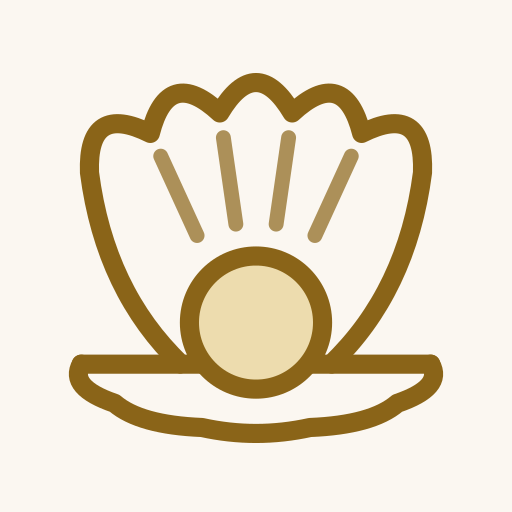
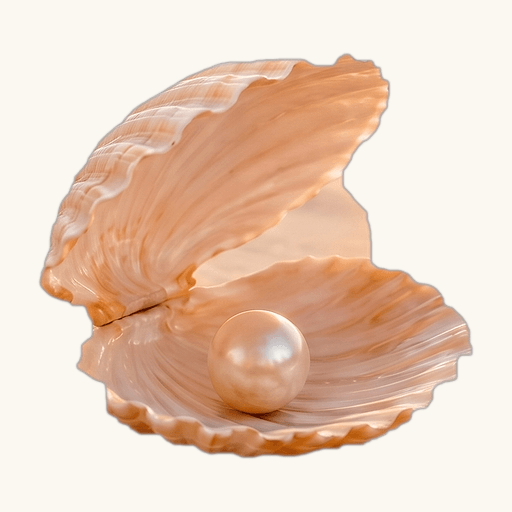
Publish site (from private @ 8de7a38)
Generated mirror — do not edit directly. See AGENTS.md.

diff --git a/src/components/sections/marketing-sections.tsx b/src/components/sections/marketing-sections.tsx
@@ -172,7 +172,6 @@ export function SectionHeading({
  */
 export function HeroSection() {
   const t = useTranslations("hero");
-  const objections = t.raw("objections") as string[];
 
   return (
     // ── `overflow-clip`, and NEVER `overflow-hidden` ──
@@ -258,7 +257,14 @@ export function HeroSection() {
                 Making each sentence its own block means the break is ours, it
                 is the same on a phone and on a desktop, and no neutral
                 character can drift across it. Nothing else goes on this line. */}
-            <h1 className="text-[3.12rem] leading-[1.04] text-balance sm:text-[4.4rem] lg:text-[5.25rem]">
+            {/* ── NOT BLACK (Pnina, 2026-08-02) ──
+                Line one used to be `--foreground`, a near-black warm brown. She
+                asked for the headline not to be black and said she would send
+                what she prefers, so BOTH lines are `--headline-accent` for now —
+                her sea, and the same token the filled CTA resolves through, so
+                the headline and the button cannot drift apart. When she sends a
+                colour this is one token, not two call sites. */}
+            <h1 className="text-headline-accent text-[2.55rem] leading-[1.02] text-balance sm:text-[4rem] lg:text-[4.8rem]">
               <span className="block">{t("titleLead")}</span>
               {/* The accent, and it is the same colour as the filled CTA below
                   by construction: `--headline-accent` resolves through
@@ -273,24 +279,44 @@ export function HeroSection() {
             </h1>
           </Reveal>
 
-          {/* The secondary header. Three sentences that each remove one reason
-              not to pick up the phone: being found out, having to describe the
-              assault, and being committed to something. They are a LIST because
-              they are three separate promises and a paragraph would bury the
-              second and third; they are not bulleted, because a tick-list of
-              reassurances is the pattern the removed pills already were. */}
+          {/* ── THE SECONDARY HEADER IS HERS NOW (2026-08-02) ──
+              This was three "בלי…" lines I wrote, each removing one reason not
+              to call. Pnina replaced them with one sentence of her own, which
+              does a different job: it names the feeling and then points at the
+              video. Her three objections are therefore currently UNSAID in the
+              hero — they still appear further down (the offer panel, the FAQ),
+              but if the hero should answer them again they need a home that is
+              not this line.
+
+              ⚠ ONE CHARACTER OF HERS WAS CHANGED. She wrote an en dash before
+              "צפי". AGENTS.md bans en and em dashes in Hebrew copy — they read
+              as machine-set English typography in a Hebrew sentence — so it is a
+              comma. Nothing else in the sentence is touched. */}
           <Reveal delay={80}>
-            <ul className="mx-auto mt-3 max-w-2xl space-y-0.5 text-[1.05rem] leading-snug text-foreground-soft sm:mt-6 sm:text-xl">
-              {objections.map((line) => (
-                <li key={line}>{line}</li>
-              ))}
-            </ul>
+            <p
+              data-hero="secondary"
+              className="mx-auto mt-3 max-w-2xl text-[1.02rem] leading-snug text-foreground-soft sm:mt-6 sm:text-[1.45rem]"
+            >
+              {t("secondary")}
+            </p>
+          </Reveal>
+
+          {/* Her own footnote to that line, and it is deliberately quieter: it
+              is for the woman who has already decided, so it must not compete
+              with the sentence that is still persuading everyone else. */}
+          <Reveal delay={120}>
+            <p
+              data-hero="secondary-note"
+              className="mx-auto mt-1.5 max-w-2xl text-sm leading-snug text-subtle-foreground sm:text-base"
+            >
+              {t("secondaryNote")}
+            </p>
           </Reveal>
         </div>
 
         <Reveal
           delay={160}
-          className="order-2 mt-4 w-full sm:mt-7 lg:mt-9"
+          className="order-2 mt-3 w-full sm:mt-7 lg:mt-9"
         >
           <HeroVideo />
         </Reveal>

diff --git a/src/app/globals.css b/src/app/globals.css
@@ -966,7 +966,20 @@
        exists to make possible. The body is a window. */
     background: transparent;
     color: var(--foreground);
-    font-family: var(--font-sans-hebrew), "Segoe UI", system-ui, sans-serif;
+    font-family:
+      var(--font-sans-hebrew),
+      "Segoe UI",
+      system-ui,
+      sans-serif,
+      /* Emoji fonts LAST, and they are not decoration. Pnina's own hero copy
+         ends in a pointing-hand emoji, and neither Heebo nor any of the fallback
+         UI faces carries an emoji glyph — so without these it rendered as two
+         empty tofu boxes on every platform. Listing them after `sans-serif` is
+         deliberate: they only ever supply codepoints the faces before them do
+         not have, so no Hebrew or Latin letter can be pulled out of them. */
+      "Apple Color Emoji",
+      "Segoe UI Emoji",
+      "Noto Color Emoji";
     -webkit-font-smoothing: antialiased;
     text-rendering: optimizeLegibility;
   }
@@ -3849,7 +3862,20 @@ html[data-a11y-emphasize-links="true"]
   margin-inline-start: auto;
   position: relative;
   isolation: isolate;
-  font-family: var(--font-sans-hebrew), "Segoe UI", system-ui, sans-serif;
+  font-family:
+      var(--font-sans-hebrew),
+      "Segoe UI",
+      system-ui,
+      sans-serif,
+      /* Emoji fonts LAST, and they are not decoration. Pnina's own hero copy
+         ends in a pointing-hand emoji, and neither Heebo nor any of the fallback
+         UI faces carries an emoji glyph — so without these it rendered as two
+         empty tofu boxes on every platform. Listing them after `sans-serif` is
+         deliberate: they only ever supply codepoints the faces before them do
+         not have, so no Hebrew or Latin letter can be pulled out of them. */
+      "Apple Color Emoji",
+      "Segoe UI Emoji",
+      "Noto Color Emoji";
   /* 2.3rem until the 0.14 type raise, which moved the whole display ladder up
      by at least 4px a tier. This word has to stay bigger than everything in the
      section but its h2, so it moves with them or it stops being the punchline. */

diff --git a/e2e/hero-fold.spec.ts b/e2e/hero-fold.spec.ts
@@ -34,10 +34,19 @@ import { expect, test } from "@playwright/test";
  * field) — if someone later makes the SE fit completely, tighten it.
  */
 
-/** The four things the client asked to be visible, in DOM order. */
+/**
+ * The things the client asked to be visible, in DOM order.
+ *
+ * The two copy blocks are addressed by `data-hero`, not by tag or class. They
+ * have already changed shape once — the secondary header was a `<ul>` of three
+ * "בלי…" lines and is now a `<p>` of Pnina's own sentence plus a quieter note —
+ * and a spec that fails because copy was re-tagged is a spec people learn to
+ * ignore. The attribute is the contract; the markup underneath is free.
+ */
 const HERO = {
   headline: "h1",
-  objections: "section:has(h1) ul li",
+  secondary: '[data-hero="secondary"]',
+  secondaryNote: '[data-hero="secondary-note"]',
   video: "section:has(h1) video",
   nameField: 'section:has(h1) input[autocomplete="name"]',
   phoneField: 'section:has(h1) input[autocomplete="tel"]',
@@ -116,7 +125,7 @@ test.describe("the hero fits above the fold", () => {
     await page.evaluate(
       () => new Promise((r) => requestAnimationFrame(() => requestAnimationFrame(r)))
     );
-    for (const name of ["headline", "objections", "video"] as const) {
+    for (const name of ["headline", "secondary", "video"] as const) {
       expect(await bottomEdge(page, HERO[name]), `${name} bottom edge`).toBeLessThanOrEqual(667);
     }
   });

diff --git a/src/content/media.ts b/src/content/media.ts
@@ -95,10 +95,10 @@ export const media: Record<
    * where the low-resolution source shows.
    */
   logo: {
-    src: "/brand/pearl-shell.png",
-    alt: "צדפה פתוחה ובתוכה פנינה, סימן המותג של פנינה פאף",
-    shape: "contain",
-    note: "הצדפה והפנינה מתוך תמונת הרקע שלה, גזורות על רקע שקוף (scripts/media/cut-shell-logo.py). סימן המותג הגאומטרי נשאר ב-public/brand/pearl-mark.svg ומזין את אייקון הדפדפן ואת כרטיס השיתוף, כי בגודל 32 פיקסלים צילום נמרח והסימן המשורטט קריא.",
+    src: "/images/pnina-portrait.jpg",
+    alt: "פנינה פאף",
+    shape: "circle",
+    note: "תמונת הפנים שלה, בחיתוך עגול. פנינה ביקשה במפורש (2026-08-02) שבראש האתר יופיעו הפנים שלה ולא הצדפה. הצדפה והפנינה הגזורות (public/brand/pearl-shell.png) הן אייקון האתר בלשונית הדפדפן, ואפשר לשלב אותן במקום אחר בעמוד, רק לא כאן.",
     width: 320,
     height: 320,
   },

diff --git a/src/components/layout/site-header.tsx b/src/components/layout/site-header.tsx
@@ -117,12 +117,8 @@ export function SiteHeader() {
               // Released, the row is its natural 36px and the lockup is 58px.
               className="group flex min-h-11 items-center gap-2.5 text-base font-bold tracking-tight text-foreground min-[1440px]:min-h-0"
             >
-              {/* 38, not 32. The mark is a photographic cutout of her shell
-                  and pearl as of 0.17.0, and a photograph needs more pixels
-                  than a drawn glyph before it reads as an object rather than a
-                  peach blob. 38 still sits comfortably inside the 64px bar. */}
               <BrandMark
-                size={38}
+                size={32}
                 className="transition-transform group-hover:scale-105"
               />
               {/* `whitespace-nowrap` — 0.17.0, and it is not cosmetic. The

diff --git a/CHANGELOG.md b/CHANGELOG.md
@@ -12,6 +12,25 @@ see `AGENTS.md` for the bump rules.
 > animation was written against a third number, 0.9.0, which never shipped on
 > its own — it lands here as part of 0.13.0.
 
+## [0.17.2] - 2026-08-02
+
+### Her words at the top, and her face back in the header
+
+- The main headline is hers: "את לא צריכה להסביר לי כלום. אני כבר מבינה אותך."
+- Under it, her own line pointing at the video, and a quieter note beneath that
+  for the woman who has already decided. The three "בלי..." lines that were
+  there are gone, so the three worries they answered are no longer addressed at
+  the top of the page. They are still answered further down, in the offer panel
+  and the questions section.
+- The headline is no longer near black. It is the sea colour, the same one as
+  the button, until she sends the colour she prefers.
+- **Her photograph is back in the header.** The shell and pearl are now the
+  website's icon, the small picture a browser shows in its tab and a phone shows
+  when someone saves the page to their home screen.
+- Her line ends in an emoji, which needed adding to the site's font list. Every
+  phone and computer carries an emoji font; the build machine here does not, so
+  it cannot be seen in a screenshot taken on it.
+
 ## [0.17.1] - 2026-08-02
 
 ### The hero reads down the middle, and the video is the size it should be
